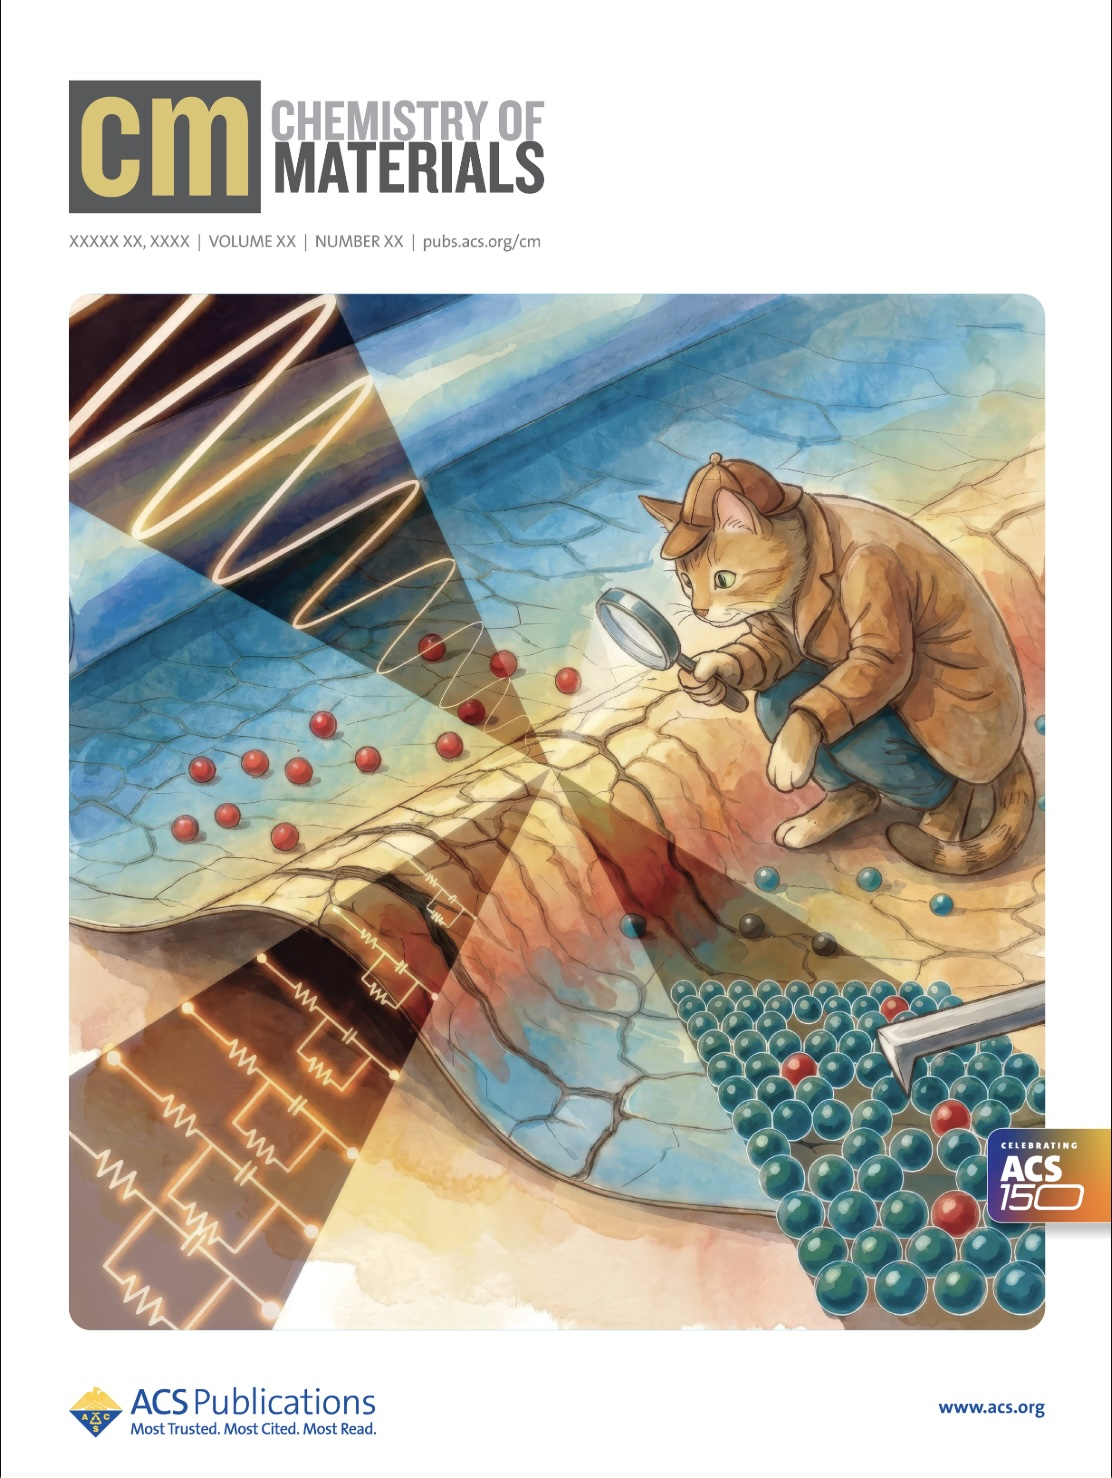
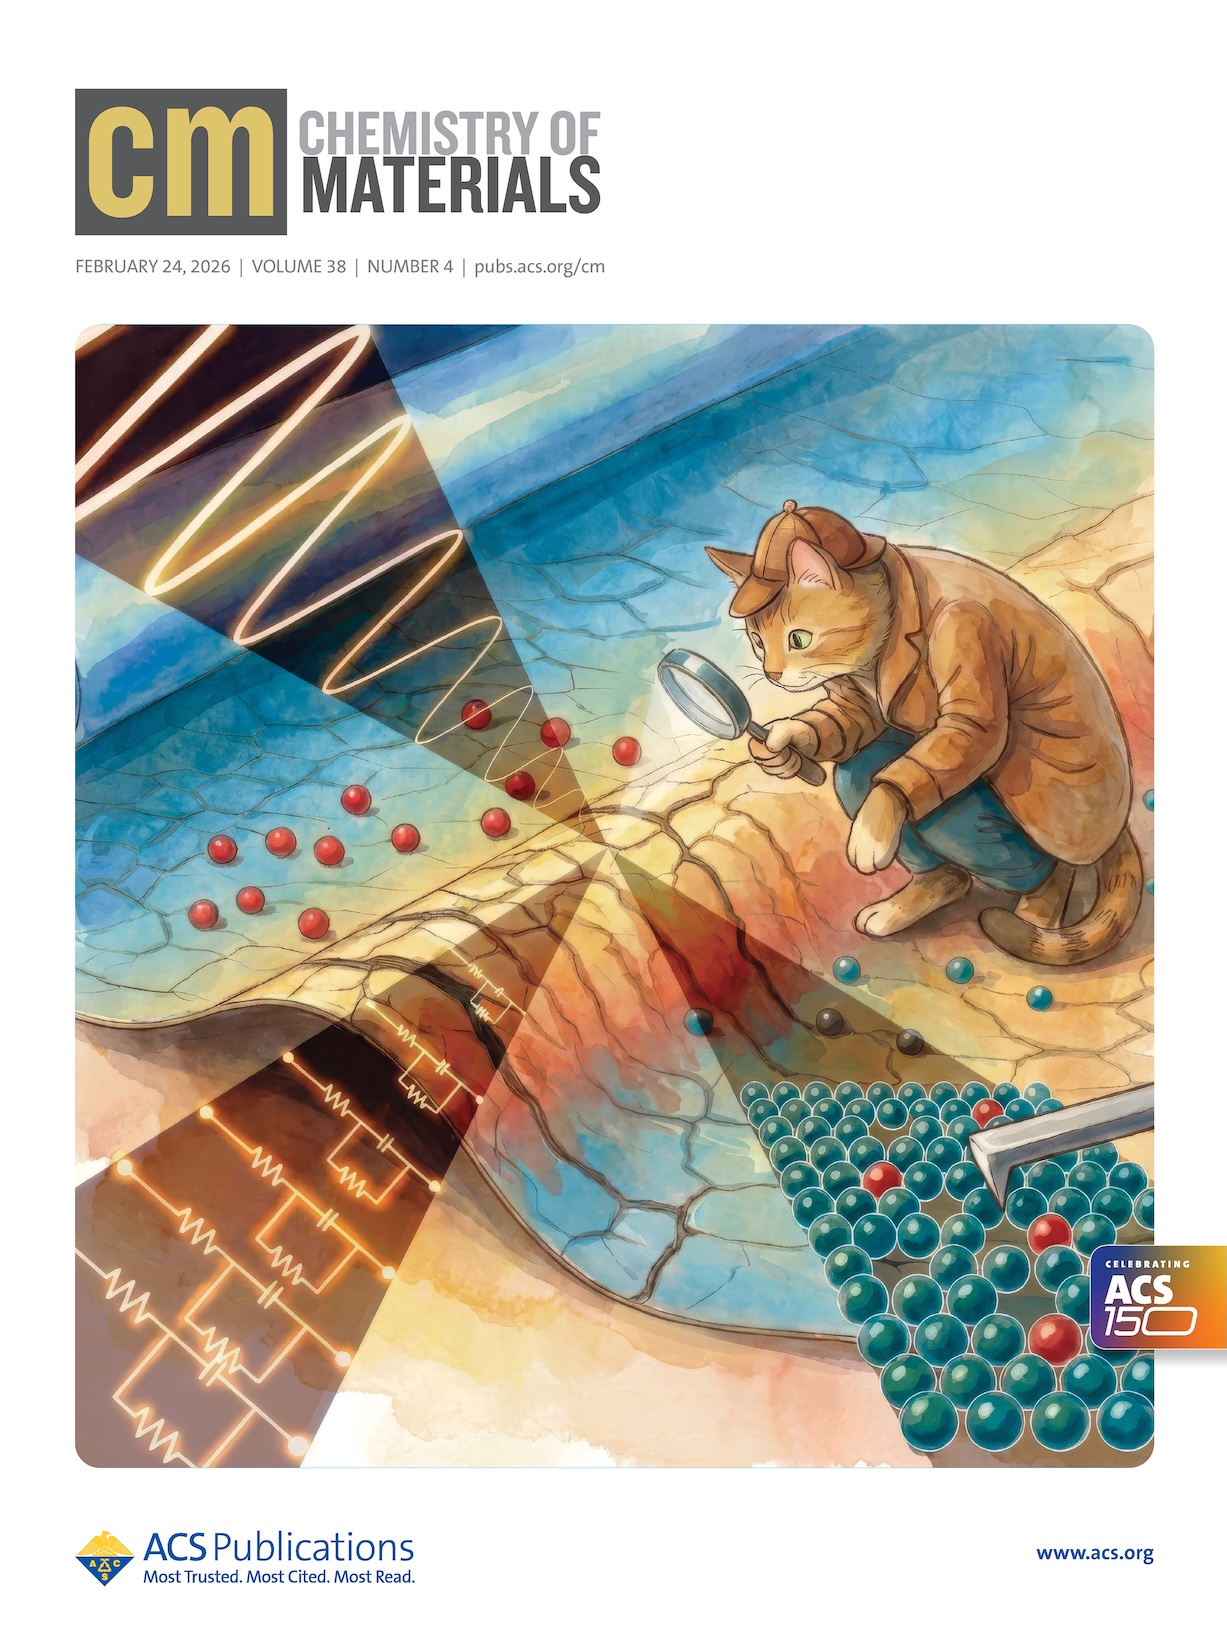
2026-03

diff --git a/js/news-data.js b/js/news-data.js
@@ -20,14 +20,46 @@
 
 const newsData = [
   {
+    id: "award-sijie-2026",
+    date: "2026-03-17",
+    title: "Sijie Chen is awarded the Excellent Graduate Student of Academic year 2024-2025",
+    content: `<p>Sijie Chen has been awarded the Excellent Graduate Student of Academic year 2024-2025. Congratulations!</p>`,
+    imageAlt: " ",
+    imageFloat: 'left', // DEMO: Image will float to the right
+    imageWidth: '35%',   // DEMO: Image will take up 45% of the container width
+    imageCaption: " "  
+  }, 
+  {
+    id: "paper-published-cm",
+    date: "2025-12-03",
+    title: "Sijie Chen's paper on instability of FTO is published on Chemistry of Materials (featured on the cover)",
+    content: `<p>Indium tin oxide-coated flexible polyethylene terephthalate (ITO-PET) is increasingly utilized in various electrochemical applications due to its exceptional electrical conductivity and optical transparency. However, the chemical and electrochemical instability of ITO coated on a flexible substrate poses significant challenges to maintaining long-term durability and structural integrity under harsh electrochemical conditions. In this study, we conducted a comprehensive ex situ and operando investigation of the electrical and optical degradation of ITO-PET electrodes.</p>`,
+    imageSrc: "../img/10.jpg",
+    imageAlt: "Chemistry of Materials cover",
+    imageFloat: 'left', // DEMO: Image will float to the right
+    imageWidth: '35%',   // DEMO: Image will take up 45% of the container width
+    imageCaption: "Chemistry of Materials"  
+  },
+  {
+    id: "paper-published-jacsau",
+    date: "2025-11-17",
+    title: "Our paper on time-resolved EIS is published on JACS Au (featured on cover)",
+    content: `<p>Our method paper on time-resolved electrochemical impedance analysis is published on JACS Au. Evaluating the long-term stability of electrocatalysts under operational conditions is critical for understanding performance degradation in fuel cells, electrolyzers, and metal-air batteries. Conventional electrochemical techniques, such as chronoamperometry and chronopotentiometry, often rely on simple current or overpotential versus time correlations, offering limited insight into the evolving structure–performance relationships. In this study, we introduce a time-resolved electrochemical impedance analysis (tr-EIA) protocol that enables the real-time tracking of key electrochemical parameters, including current/overpotential, electrochemical double-layer capacitance, charge transfer resistance, electrolyte resistance, and process relaxation times, all in a single experiment. By applying tr-EIA to commercial RuO2 and Pt/C catalysts across representative electrochemical reactions, we reveal time-resolved structural dynamics and uncover distinct degradation pathways at different stages of operation. Notably, structural degradation tied to changes in the electrochemically active surface area is distinguished from kinetic factors, such as increased resistance, with quantitative insights provided by the proposed surface area contribution factor. This single-run tr-EIA approach delivers a comprehensive understanding of electrochemical and structural evolution, offering a powerful tool to decode the mechanisms governing electrocatalyst stability under realistic operating conditions..</p>`,
+    imageSrc: "../img/9.jpg",
+    imageAlt: "JACSAu cover",
+    imageFloat: 'right', // DEMO: Image will float to the right
+    imageWidth: '35%',   // DEMO: Image will take up 45% of the container width
+    imageCaption: "JACS Au cover (Vol 5/Issue 12 2025)"  
+  },
+  {
     id: "paper-published-jpcc-2025",
     date: "2025-07-20",
     title: "Sijie Chen and Ting Zhang's paper on RuO2-catalyzed ammonia electrooxidation is published",
     content: `<p>Sijie Chen and Ting Zhang's paper on RuO2-catalyzed ammonia electrooxidation is published in <a href="https://doi.org/10.1021/acs.jpcc.5c02770" target="_blank" rel="noopener noreferrer">The Journal of Physical Chemistry C</a>, featured as front cover. This article is published as part of The Journal of Physical Chemistry C special issue “Jacek Lipkowski Festschrift”.</p> <p>Ammonia electrooxidation (AOR) on metal oxides involves a complex interplay between nitrogen (N)- and oxygen (O)-containing intermediates, critically influencing reaction activity and product selectivity. In this study, we investigate AOR on RuO2 under alkaline conditions with electrochemical and in situ characterization techniques, including differential electrochemical mass spectrometry (DEMS) and ultraviolet–visible (UV–vis) spectroelectrochemistry. The effects of NH3 and OH– concentration (0.1–2.0 M, and 0.01–1.0 M, respectively) as well as applied potential on AOR and the concurrent oxygen evolution reaction (OER) are examined. NO and NO3– are identified as the main AOR products, especially at high OH– concentration and potential, with minor quantities of N2O and no detectable N2 formation. Increasing NH3 concentration suppresses OER by competing for surface sites, particularly at low OH– concentrations, while promoting AOR pathways. Product analysis with DEMS and colorimetry identifies two distinct regimes of N2O and NO3– formation: a low-potential, NH3-driven pathway, and a high-potential, *OOH-mediated pathway. The exclusive formation of NO at high OH– concentration and potential underscores the role of *OOH in *NOH dehydrogenation. Moreover, NO3– arises through both *OOH-assisted and NH3-rich surface mechanisms, depending on the electrolyte environment. The absence of N2 suggests that *N–*N coupling is kinetically or thermodynamically limited on RuO2. These findings highlight the critical role of intermediates (*NHx, *NOH, and *OOH) in dictating product selectivity, offering tunable control over AOR pathways.</p>`,
-    imageSrc: "../img/25jpcc.jpeg",
+    imageSrc: "../img/7.jpg",
     imageAlt: "JPCC cover",
     imageFloat: 'left', // DEMO: Image will float to the right
-    imageWidth: '20%',   // DEMO: Image will take up 45% of the container width
+    imageWidth: '35%',   // DEMO: Image will take up 45% of the container width
     imageCaption: "JPCC cover (Vol 129/Issue 27 2025)"  
   },
   {